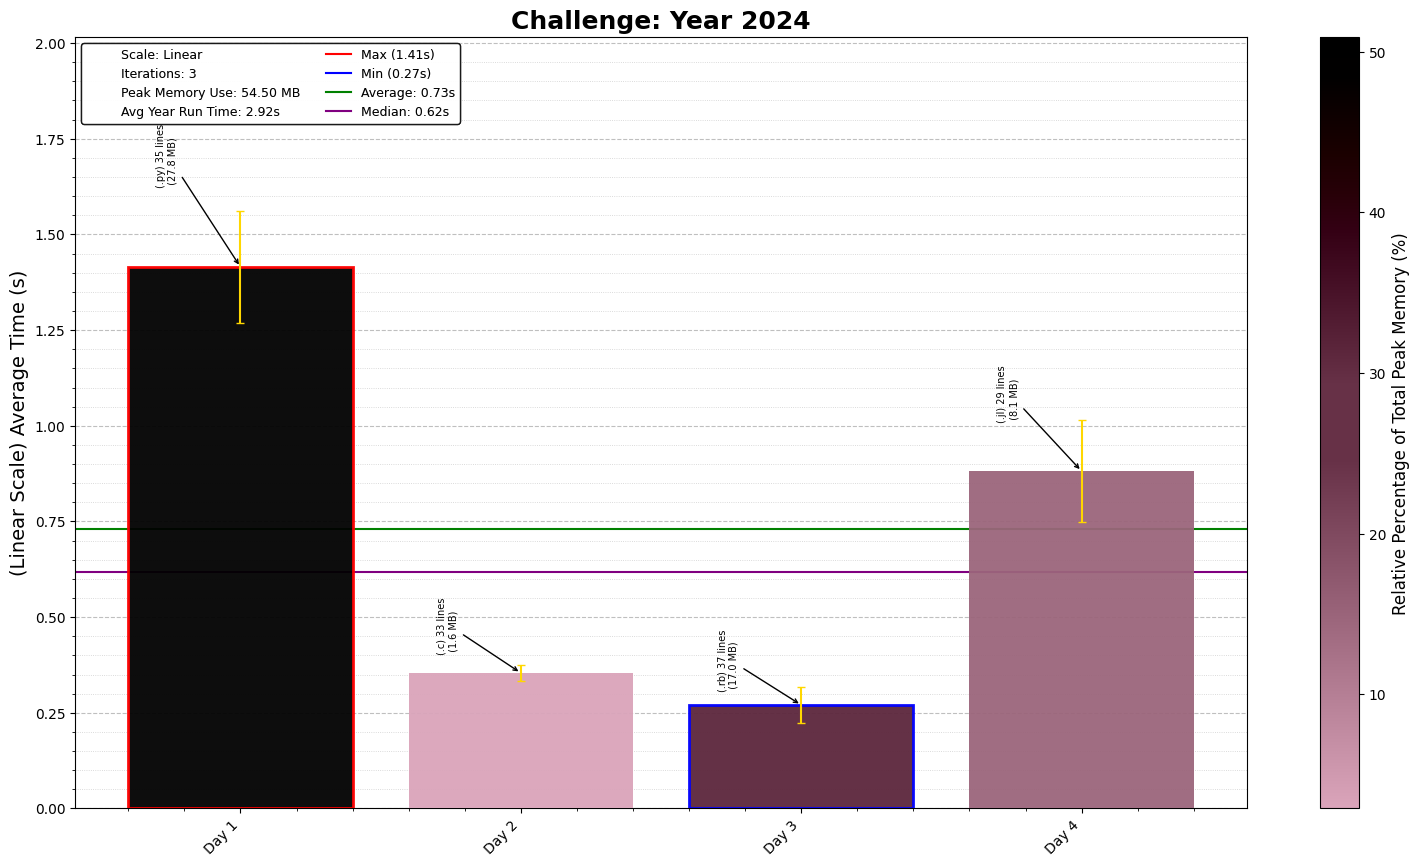
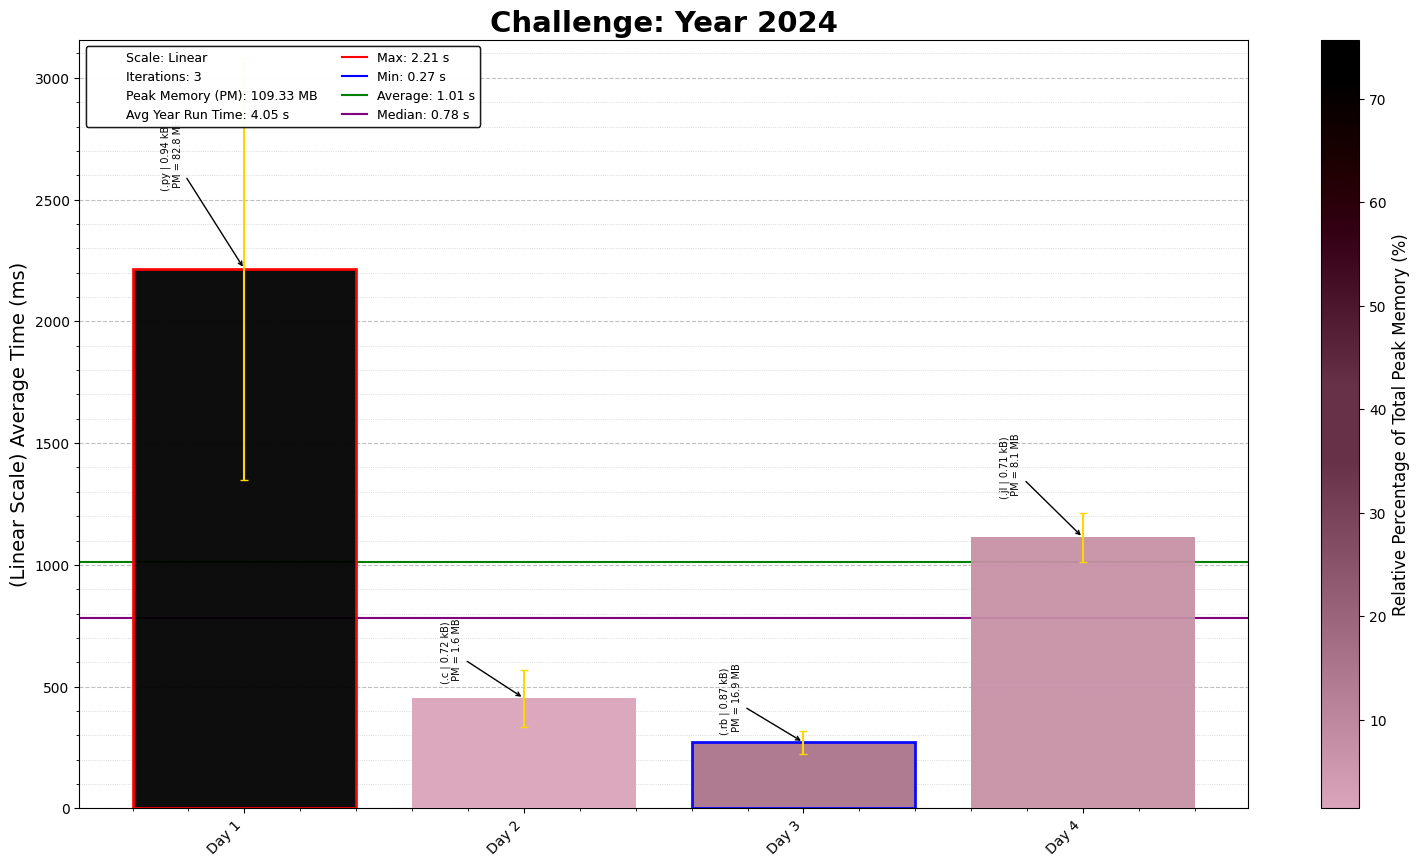
Change Benchmark funcs(add file size and change to ms)

diff --git a/Benchmarks/visualization.py b/Benchmarks/visualization.py
@@ -21,7 +21,7 @@ def create_plot(df, challenge, Year, Iters, save_dir, center_color="#4CAF50", sc
     Create a plot for average times with dynamic scaling and annotations.
 
     Parameters:
-        df (DataFrame): Input data with columns ['Day', 'Avg(s)', 'STD(s)', 'Lang', 'Lines', 'Avg(MB)'].
+        df (DataFrame): Input data with columns ['Day', 'Avg(ms)', 'STD(ms)', 'Lang', 'Lines', 'Avg(MB)'].
         challenge (str): Challenge name (e.g., 'Advent of Code').
         Year (int): Year of the challenge.
         Iters (int): Num of iterations.
@@ -37,10 +37,10 @@ def create_plot(df, challenge, Year, Iters, save_dir, center_color="#4CAF50", sc
 
     # Convert the 'Day' column to numeric
     days = pd.to_numeric(df['Day'], errors='coerce')  # Convert days to numeric, coercing any errors to NaN
-    avg_times = df[f'Avg(s)'].tolist()  # Get the average times for each day
-    std_devs = df[f'STD(s)'].tolist()
+    avg_times = df[f'Avg(ms)'].tolist()  # Get the average times for each day
+    std_devs = df[f'STD(ms)'].tolist()
     avg_mems = df[f'Avg(MB)'].tolist()  # Get the average memory usage for each day
-    rel_memory = df['Memory%'].tolist()  # Percentage of total memory for each day
+    rel_memory = df['Memory %'].tolist()  # Percentage of total memory for each day
 
     # Handle the file info (Langs and Lines)
     file_info = dict(zip(df['Lang'], zip(df['Lang'], df['Lines'])))  # Create a dict of file info for Langs and Lines
@@ -64,9 +64,9 @@ def create_plot(df, challenge, Year, Iters, save_dir, center_color="#4CAF50", sc
         label_y = bar.get_height()
         label_x = (bar.get_x() + bar.get_width() / 2)
         file_path = df['Lang'].iloc[i]  # Get the file extension
-        line_count = df['Lines'].iloc[i]  # Get the line count
+        file_size = df['Size(kB)'].iloc[i]  # Get the line count
         memory = df['Avg(MB)'].iloc[i]
-        ax.annotate(f"({file_path}) {line_count} lines \n ({memory:.1f} MB)",
+        ax.annotate(f"({file_path} | {file_size:.2f} kB) \n PM = {memory:.1f} MB",
                     xy=(label_x, label_y),
                     xytext=(label_x - 0.3, label_y * 1.15),
                     arrowprops=dict(facecolor='black', arrowstyle='->'),
@@ -102,14 +102,14 @@ def create_plot(df, challenge, Year, Iters, save_dir, center_color="#4CAF50", sc
     bars[min_idx].set_linewidth(2)
 
     # Add markers for max and min points with labels
-    ax.plot(max_day, max_time, '-', color = max_color, label=f"Max ({max_time:.2f}s)", markersize=8, zorder=5)
-    ax.plot(min_day, min_time, '-', color = min_color, label=f"Min ({min_time:.2f}s)", markersize=8, zorder=5)
+    ax.plot(max_day, max_time, '-', color = max_color, label=f"Max: {max_time/1000:.2f} s", markersize=8, zorder=5)
+    ax.plot(min_day, min_time, '-', color = min_color, label=f"Min: {min_time/1000:.2f} s", markersize=8, zorder=5)
 
     # Add average and median lines
     average_time = np.mean(avg_times)  # Mean of the average times
     median_time = np.median(avg_times)  # Median of the average times
-    ax.axhline(average_time, color='#008000', linestyle='-', label=f'Average: {average_time:.2f}s')
-    ax.axhline(median_time, color='#800080', linestyle='-', label=f'Median: {median_time:.2f}s')
+    ax.axhline(average_time, color='#008000', linestyle='-', label=f'Average: {average_time/1000:.2f} s')
+    ax.axhline(median_time,  color='#800080', linestyle='-', label=f'Median: {median_time/1000:.2f} s')
 
     # Add error bars based on the standard deviation for each day
     ax.errorbar(days, avg_times, yerr=std_devs, fmt='none', color='#FFD700', capsize=3, zorder=4)
@@ -117,9 +117,9 @@ def create_plot(df, challenge, Year, Iters, save_dir, center_color="#4CAF50", sc
     # Customize x-axis and y-axis labels
     ax.set_xticks(days)
     ax.set_xticklabels([f'Day {int(day)}' for day in days], rotation=45, ha='right')  # Ensure days are displayed as integers
-    ax.set_ylabel(f"({scale.capitalize()} Scale) Average Time (s)", fontsize=14)
+    ax.set_ylabel(f"({scale.capitalize()} Scale) Average Time (ms)", fontsize=14)
     ax.set_title(f'{challenge}: Year {Year}',
-                    fontsize=18, fontweight='bold')
+                    fontsize=21, fontweight='bold')
 
     # Add grid and legend
     ax.grid(visible=True, which='major', axis='y', linestyle='--', linewidth=0.8, alpha=0.8)
@@ -133,8 +133,8 @@ def create_plot(df, challenge, Year, Iters, save_dir, center_color="#4CAF50", sc
     custom_lines = [
         plt.Line2D([0], [0], color='white', label=f"Scale: {scale.capitalize()}"),
         plt.Line2D([0], [0], color='white', label=f"Iterations: {Iters}"),
-        plt.Line2D([0], [0], color='white', label=f"Peak Memory Use: {total_mem:.2f} MB"),
-        plt.Line2D([0], [0], color='white', label=f"Avg Year Run Time: {total_time:.2f}s"),
+        plt.Line2D([0], [0], color='white', label=f"Peak Memory (PM): {total_mem:.2f} MB"),
+        plt.Line2D([0], [0], color='white', label=f"Avg Year Run Time: {total_time/1000:.2f} s"),
     ]
 
     # Existing legend items (e.g., for average, median, max, min)

diff --git a/Benchmarks/performance_analysis.py b/Benchmarks/performance_analysis.py
@@ -8,7 +8,7 @@ def create_table(file_info, times_taken, peak_memory_usage, num_iterations, year
     Saves the table to a file and creates a DataFrame with the data.
 
     Parameters:
-        file_info (dict): Contains programming language and line count for each day.
+        file_info (dict): Contains programming language, line count and file size for each day.
         times_taken (dict): Contains execution times for each day.
         peak_memory_usage (dict): Contains memory usage for each day.
         num_iterations (int): Number of iterations the tests ran.
@@ -44,20 +44,21 @@ def create_table(file_info, times_taken, peak_memory_usage, num_iterations, year
 
     # Define table headers
     headers = [
-        "Day", "Avg(s)", "STD(s)", "Time %",
-        "Avg(MB)", "STD(MB)", "Memory%",
-        "Lang", "Lines"
+        "Day", "Avg(ms)", "STD(ms)", "Time %",
+        "Avg(MB)", "STD(MB)", "Memory %",
+        "Lang", "Size(kB)", "Lines"
     ]
-    row_format = "{:<7}" + "{:<10}" * (len(headers) - 1)
+    row_format = "{:<7}" + "{:<12}" + "{:<10}" * (len(headers) - 2)
 
     # Initialize table content and DataFrame data
-    table_lines = [row_format.format(*headers), "-" * (len(headers) * 15)]
+    table_lines = [row_format.format(*headers), "-" * (len(headers) * 10)]
     data_for_df = []
 
     # Totals and aggregates for the summary row
     total_time = sum(avg_execution_times.values())
     total_memory = sum(avg_memory_usages.values())
     total_lines_of_code = 0
+    all_script_sizes = 0
     cumulative_time_percentage = 0
     cumulative_memory_percentage = 0
     cumulative_time_std = 0
@@ -84,21 +85,22 @@ def create_table(file_info, times_taken, peak_memory_usage, num_iterations, year
         cumulative_time_percentage += time_percentage
         cumulative_memory_percentage += memory_percentage
 
-        language, lines_of_code = file_info.get(day, ("N/A", 0))
+        language, lines_of_code, file_size = file_info.get(day, ("N/A", 0))
         total_lines_of_code += lines_of_code
+        all_script_sizes += file_size
 
         # Add data to the DataFrame list
         data_for_df.append([
             day, avg_time, std_time, time_percentage,
             avg_memory, std_memory, memory_percentage,
-            language, lines_of_code
+            language, file_size, lines_of_code
         ])
 
         # Add data to the text table
         table_lines.append(row_format.format(
-            f" {day} ", f"{avg_time:.2f}", f"{std_time:.2f}", f"{time_percentage:.2f}%",
-            f"{avg_memory:.2f}", f"{std_memory:.2f}", f"{memory_percentage:.2f}%", 
-            language, f"  {lines_of_code}  "
+            f" {day} ", f"{avg_time:.2f}", f" {std_time:.2f}", f"{time_percentage:.2f}%",
+            f" {avg_memory:.2f}", f" {std_memory:.2f}", f"{memory_percentage:.2f}%",
+            language, f" {file_size:.2f} ", f" {lines_of_code} "
         ))
 
         # Track all average times for further statistics
@@ -111,11 +113,11 @@ def create_table(file_info, times_taken, peak_memory_usage, num_iterations, year
     median_avg_time = np.median(all_avg_times) if all_avg_times.size > 0 else 0
 
     # Add a totals row
-    table_lines.append("-" * (len(headers) * 15))
+    table_lines.append("-" * (len(headers) * 10))
     table_lines.append(row_format.format(
         "Total", f"{total_time:.2f}", f"{cumulative_time_std:.2f}", f"{cumulative_time_percentage:.2f}%", 
-        f"{total_memory:.2f}", f"{cumulative_memory_std:.2f}", f"{cumulative_memory_percentage:.2f}%", 
-        "N/A", f"  {total_lines_of_code}"
+        f"{total_memory:.2f}", f" {cumulative_memory_std:.2f}", f"{cumulative_memory_percentage:.2f}%", 
+        " N/A", f" {all_script_sizes:.2f}", f"{total_lines_of_code}"
     ))
 
     # Add additional info
@@ -129,7 +131,7 @@ def create_table(file_info, times_taken, peak_memory_usage, num_iterations, year
     df.loc[len(df)] = [
         "Total", total_time, cumulative_time_std, cumulative_time_percentage, 
         total_memory, cumulative_memory_std, cumulative_memory_percentage, 
-        "N/A", total_lines_of_code
+        "N/A", all_script_sizes, total_lines_of_code
     ]
     print(df)
     return df, table_lines

diff --git a/Benchmarks/execute_challenge.py b/Benchmarks/execute_challenge.py
@@ -34,6 +34,7 @@ def execute_challenge_scripts(challenge, Year, days_to_run, base_dir, num_iterat
                     : Peak memory usage.
                     : Line counts.
                     : Languages used.
+                    : File size:
     """
     print(f"\n{challenge} - {Year}")
     print(f"Running scripts for days: {min(days_to_run)} to {max(days_to_run)} over {num_iterations} iterations.")
@@ -58,7 +59,7 @@ def execute_challenge_scripts(challenge, Year, days_to_run, base_dir, num_iterat
                 day_number = int(day_dir)
                 if day_number in days_to_run:
                     print(f"\nProcessing Day {day_number}...")
-                    day_time, day_lines, day_peak_memory = 0, 0, 0
+                    day_time, day_lines, day_size, day_peak_memory = 0, 0, 0, 0
                     languages = set()
 
                     # Execute all scripts for the day
@@ -69,9 +70,10 @@ def execute_challenge_scripts(challenge, Year, days_to_run, base_dir, num_iterat
                         if script_day == day_number:
                             result = run_script(script_file)
                             if result:
-                                extension, line_count, elapsed_time, peak_memory = result
-                                day_time += elapsed_time
+                                extension, line_count, file_size, elapsed_time, peak_memory = result
+                                day_time += elapsed_time * 1000
                                 day_lines += line_count
+                                day_size  += file_size
                                 day_peak_memory = max(day_peak_memory, peak_memory)  # Track highest memory usage
                                 languages.add(extension[1:])  # Store language/extension without dot
 
@@ -81,7 +83,7 @@ def execute_challenge_scripts(challenge, Year, days_to_run, base_dir, num_iterat
                         times_taken[day_number].append(day_time)  # Add this iteration's time
                         peak_memory_usage[day_number].append(day_peak_memory)
                         if day_number not in file_info:
-                            file_info[day_number] = (f".{languages_str}", day_lines)
+                            file_info[day_number] = (f".{languages_str}", day_lines, day_size)
 
     # Use averaged times for the table and plot
     run_df, table_txt = create_table(file_info, times_taken, peak_memory_usage, num_iterations, Year)

diff --git a/Benchmarks/script_runner.py b/Benchmarks/script_runner.py
@@ -14,6 +14,14 @@ def get_file_line_count(file_path):
         print(f"Error reading {file_path}: {e}")
         return 0
 
+def get_file_size(file_path):
+    """Get the size of a file in kilobytes."""
+    try:
+        return os.path.getsize(file_path) / 1024
+    except Exception as e:
+        print(f"Error getting size of {file_path}: {e}")
+        return 0
+
 def monitor_memory_usage(process):
     """Monitor the peak memory usage of a subprocess."""
     try:
@@ -69,11 +77,13 @@ def run_script(file_path):
         peak_memory = monitor_memory_usage(process)
         process.wait()  # Ensure the process has finished
 
-        elapsed_time = time.time() - start_time
-        print(f"Finished running {file_name} in {elapsed_time:.2f} seconds with peak memory usage {peak_memory:.2f} MB.")
-
         line_count = get_file_line_count(file_path)
-        return extension, line_count, elapsed_time, peak_memory
+        file_size = get_file_size(file_path)
+
+        elapsed_time = time.time() - start_time
+        print(f"Finished running {file_name} in {elapsed_time:.2f} seconds with peak memory usage {peak_memory:.2f} MB. ")
+
+        return extension, line_count, file_size, elapsed_time, peak_memory
     except subprocess.CalledProcessError as e:
         print(f"Error executing {file_name}: {e}")
         return None
